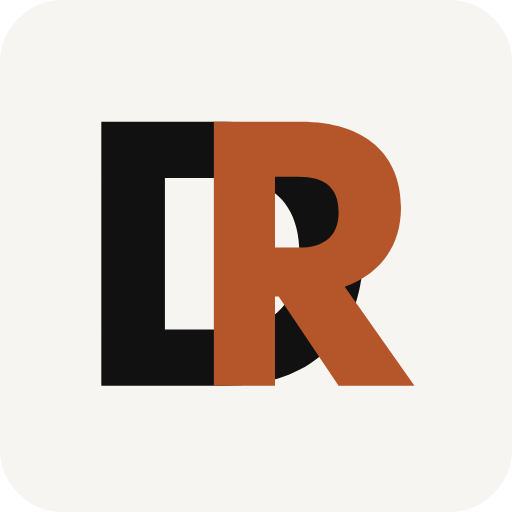
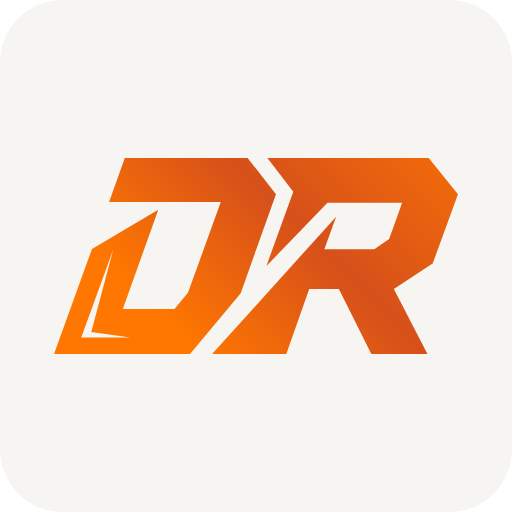
Brand: the official orange italic DR replaces the old monogram
The new DR comes from the van wrap's own vector file (Ai.ai, page 1): its three
filled shapes and its gradient, from #FF7700 to #D6501B and back, are copied
into public/brand/dr-mark.svg and into each brand SVG. The wordmark beside it in
the header logo is unchanged; the DR is fitted into the space the old monogram
held. The brand mark, email mark, favicons, favicon.ico and the home-screen icon
are re-exported at their existing sizes. Link previews move to a new
dr-social-card-v3 so messaging apps fetch the new image; v1 and v2 stay as they
were. The header logo's cache key moves to 20261025-1.

diff --git a/src/seo.ts b/src/seo.ts
@@ -124,7 +124,7 @@ function businessGraph(): Record<string, unknown>[] {
 export function headTags(route: string, indexable = true): HeadTag[] {
   const page = HOME_ANCHORS.includes(route) ? "home" : route;
   const canonical = `${SITE_ORIGIN}${routeHref(page)}`;
-  const socialImage = `${SITE_ORIGIN}/brand/dr-social-card-v2.png`;
+  const socialImage = `${SITE_ORIGIN}/brand/dr-social-card-v3.png`;
   const businessId = BUSINESS_ID;
   const [serviceId, detailKey] = page.split("/");
   const service = SERVICES.find((item) => item.id === serviceId);

diff --git a/src/SiteShell.tsx b/src/SiteShell.tsx
@@ -28,7 +28,7 @@ const pageLinks = [
 function BrandLogo({ onDark = false }: { onDark?: boolean }) {
   return (
     <span className={`brand-lockup${onDark ? " on-dark" : ""}`}>
-      <img src="/brand/dr-logo.svg?v=20261004-3" alt="" aria-hidden="true" width="180" height="46" />
+      <img src="/brand/dr-logo.svg?v=20261025-1" alt="" aria-hidden="true" width="180" height="46" />
     </span>
   );
 }

diff --git a/README.md b/README.md
@@ -262,11 +262,14 @@ unless `src/seo.ts` has a specific override.
 
 Keep the transparent website lockup for the page header and footer. Shared links
 and small icons use opaque light backgrounds so the black lettering stays visible
-in light and dark apps. All variants use the approved DR mark.
+in light and dark apps. All variants use the approved DR mark: the orange italic
+DR from the October 2026 van wrap, drawn from the wrap's own vector paths in
+`public/brand/dr-mark.svg` (a gradient from #FF7700 to #D6501B and back). The
+wordmark beside it is unchanged.
 
 | Surface | SVG source | Production export |
 | --- | --- | --- |
-| Link previews, including messages | `public/brand/dr-social-card-v2.svg` | `public/brand/dr-social-card-v2.png` (1200 × 630; full website logo) |
+| Link previews, including messages | `public/brand/dr-social-card-v3.svg` | `public/brand/dr-social-card-v3.png` (1200 × 630; full website logo) |
 | Business logo in structured data | `public/brand/dr-brand-mark.svg` | `public/brand/dr-brand-mark.png` (512 × 512) |
 | Browser and search icons | `public/brand/dr-brand-mark.svg` | `public/brand/dr-favicon-48.png` (48 × 48), `public/brand/dr-favicon-96.png` (96 × 96), `public/favicon.ico` (16, 32, 48) |
 | iPhone home-screen icon | `public/brand/dr-brand-mark.svg` | `public/apple-touch-icon.png` (180 × 180) |
